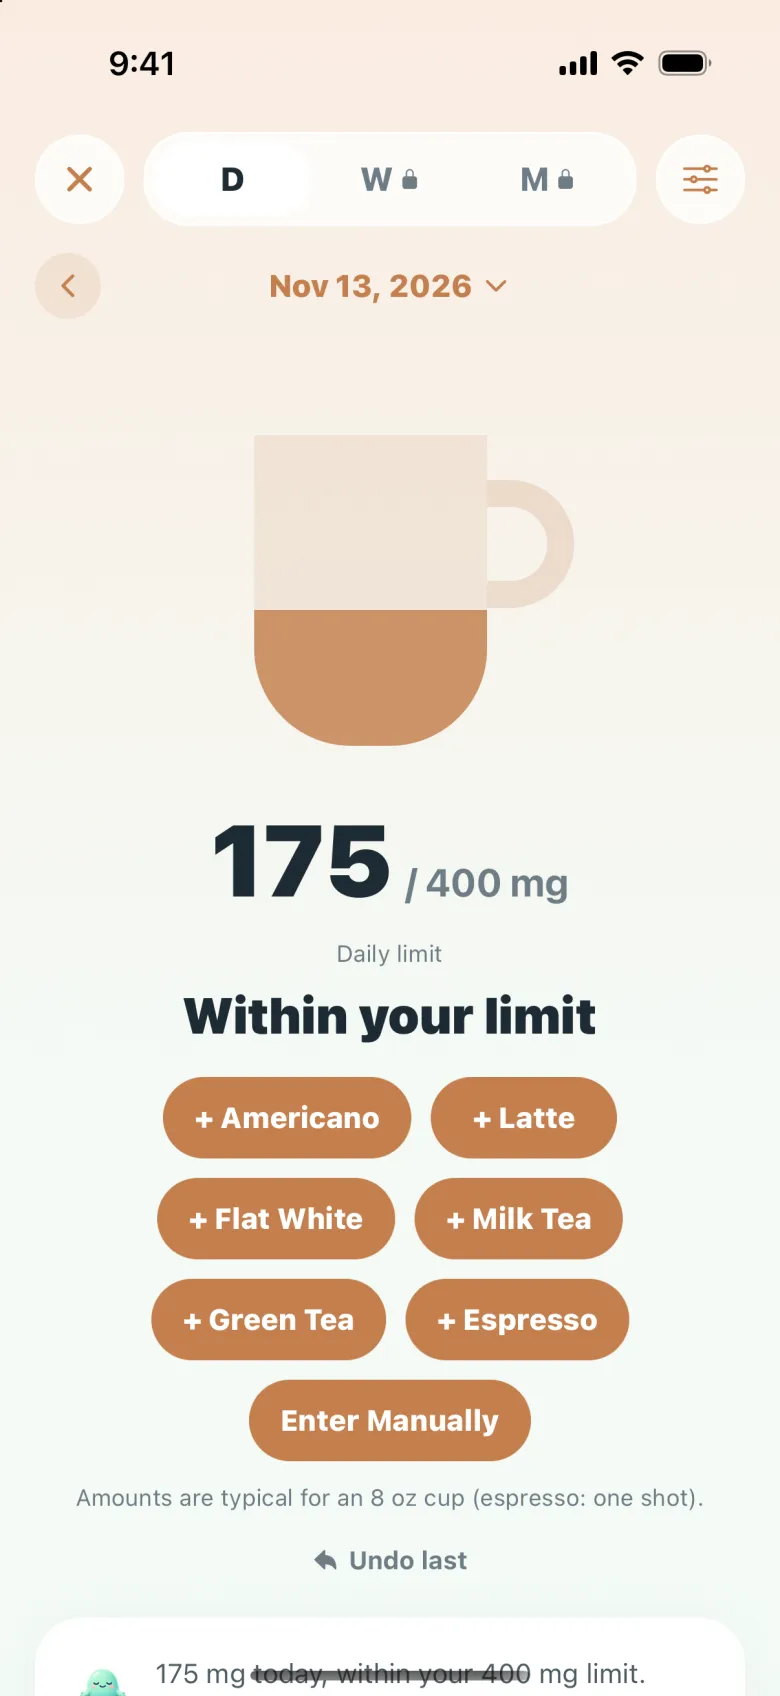
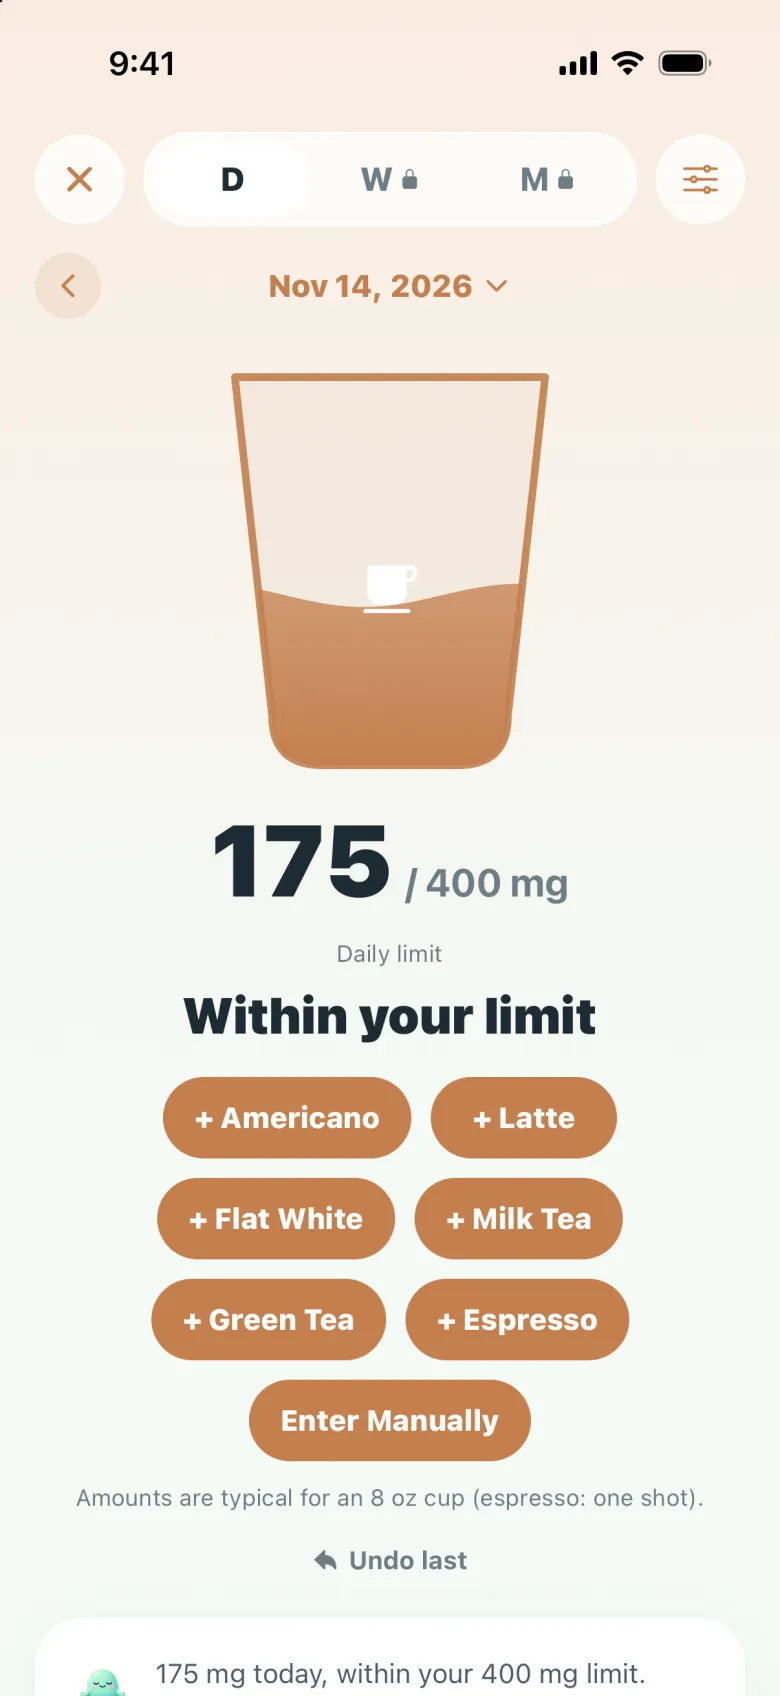
Website: new watch home and drinks screens, iPhone cup screenshots

diff --git a/website/public/index.html b/website/public/index.html
@@ -81,11 +81,11 @@
         <ul><li>You share your mood, never your raw health data</li><li>A Friends group for everyone; more groups like Family with Plus</li><li>Each group has its own invite code, and approved friends join that group</li><li>Requests appear live, with Accept and Decline</li><li>One-tap replies picked for each mood, with Undo</li><li>Little Signals for a quick hug or a bit of sunshine</li><li>Mute, hide your moods from, or remove anyone at any time</li></ul></div>
       </article>
       <article class="feature rev">
-        <div class="watch big" data-watch data-watch-slides="home,float,list"></div>
+        <div class="watch big" data-watch data-watch-slides="home,drinks,float,list"></div>
         <div><span class="kicker mint">Apple Watch</span><h3>Your pal, right on your wrist</h3>
         <p>The MoodPals watch app shows the same animated pal as your iPhone, changing with your mood and stress level. Add a MoodPals complication and your mood sits right next to the time, so you can see it without opening the app. Measure your stress on demand, check in with a tap and pick a watch theme that suits you.</p>
         <p>Your Circle comes along too. A mood you pick on your watch is shared with the groups you've allowed to see it, and while the app is open, a friend's reaction floats gently over your pal. A small Circle button shows how many reactions you haven't seen yet.</p>
-        <ul><li>Share your mood with your Circle from your wrist</li><li>Friends' reactions float by while the app is open</li><li>Mood, Mood &amp; Stress and Stress score complications</li><li>Measure now: a fresh stress reading in about a minute</li><li>Log water and caffeine with one tap on your own watch</li><li>Tap to change your mood, guided breathing on your wrist</li><li>The Watches tab on your iPhone shows if your watch is set up, with the steps if it isn't</li><li>Same stress score on your iPhone and Apple Watch</li></ul></div>
+        <ul><li>Share your mood with your Circle from your wrist</li><li>Friends' reactions float by while the app is open</li><li>Mood, Mood &amp; Stress and Stress score complications</li><li>Measure now: a fresh stress reading in about a minute</li><li>Log water and caffeine with one tap on your own watch</li><li>Stress bar with your heart rate and HRV</li><li>Tap to change your mood, guided breathing on your wrist</li><li>The Watches tab on your iPhone shows if your watch is set up, with the steps if it isn't</li><li>Same stress score on your iPhone and Apple Watch</li></ul></div>
       </article>
       <article class="feature" id="watch-mood">
         <div class="watch-steps">
@@ -100,7 +100,7 @@
       <article class="feature rev" id="hydration">
         <div class="phone" data-screen="hydration" data-slides="hydration,caffeine"></div>
         <div><span class="kicker sky">New: Hydration &amp; caffeine</span><h3>Log every glass and every coffee</h3>
-        <p>Log water in ounces with one tap, or pick your drink: Americano, Latte, Flat White, Milk Tea, Green Tea or Espresso. MoodPals keeps a daily caffeine guide and can add your coffee or tea to your hydration too. On your own Apple Watch, tap the water drop or the cup to log a drink, and set how much each tap counts in the app.</p>
+        <p>Log water in ounces with one tap, or pick your drink: Americano, Latte, Flat White, Milk Tea, Green Tea or Espresso. MoodPals keeps a daily caffeine guide and can add your coffee or tea to your hydration too. On your own Apple Watch, tap the water drop in the corner to open your drinks, then tap a cup to log one and watch it fill to today's level. Set how much each tap counts in the app.</p>
         <ul><li>Free to log water and caffeine</li><li>Caffeine drinks can count toward hydration</li><li>Log from your wrist or a watch-face shortcut</li><li>Daily water goal and water reminders with Plus</li></ul></div>
       </article>
       <article class="feature" id="family">

diff --git a/website/public/app.js b/website/public/app.js
@@ -81,7 +81,7 @@ document.querySelectorAll('.phone').forEach(phone => {
   phone.appendChild(screen);
   const slides = (phone.dataset.slides || '').split(',').filter(Boolean);
   if (slides.length) {
-    screen.innerHTML = slides.map((s, i) => `<img class="slide${i ? '' : ' on'}" src="/img/screens/${s}.webp?v=14" alt="MoodPals ${s.replace('-', ' ')} screen">`).join('');
+    screen.innerHTML = slides.map((s, i) => `<img class="slide${i ? '' : ' on'}" src="/img/screens/${s}.webp?v=15" alt="MoodPals ${s.replace('-', ' ')} screen">`).join('');
     let i = 0;
     const imgs = screen.querySelectorAll('.slide');
     setInterval(() => { imgs[i].classList.remove('on'); i = (i + 1) % imgs.length; imgs[i].classList.add('on'); }, 2800);
@@ -128,7 +128,7 @@ document.querySelectorAll('[data-join]').forEach(link => link.addEventListener('
 document.querySelectorAll('[data-watch]').forEach(watch => {
   const slides = (watch.dataset.watchSlides || '').split(',').filter(Boolean);
   if (slides.length) {
-    watch.innerHTML = `<div class="band top"></div><div class="case"><div class="face">${slides.map((s, i) => `<img class="wslide${i ? '' : ' on'}" src="/img/watch/${s}.webp?v=3" alt="MoodPals Apple Watch ${s} screen">`).join('')}</div></div><div class="band bottom"></div>`;
+    watch.innerHTML = `<div class="band top"></div><div class="case"><div class="face">${slides.map((s, i) => `<img class="wslide${i ? '' : ' on'}" src="/img/watch/${s}.webp?v=4" alt="MoodPals Apple Watch ${s} screen">`).join('')}</div></div><div class="band bottom"></div>`;
     let i = 0;
     const imgs = watch.querySelectorAll('.wslide');
     setInterval(() => { imgs[i].classList.remove('on'); i = (i + 1) % imgs.length; imgs[i].classList.add('on'); }, 2800);
